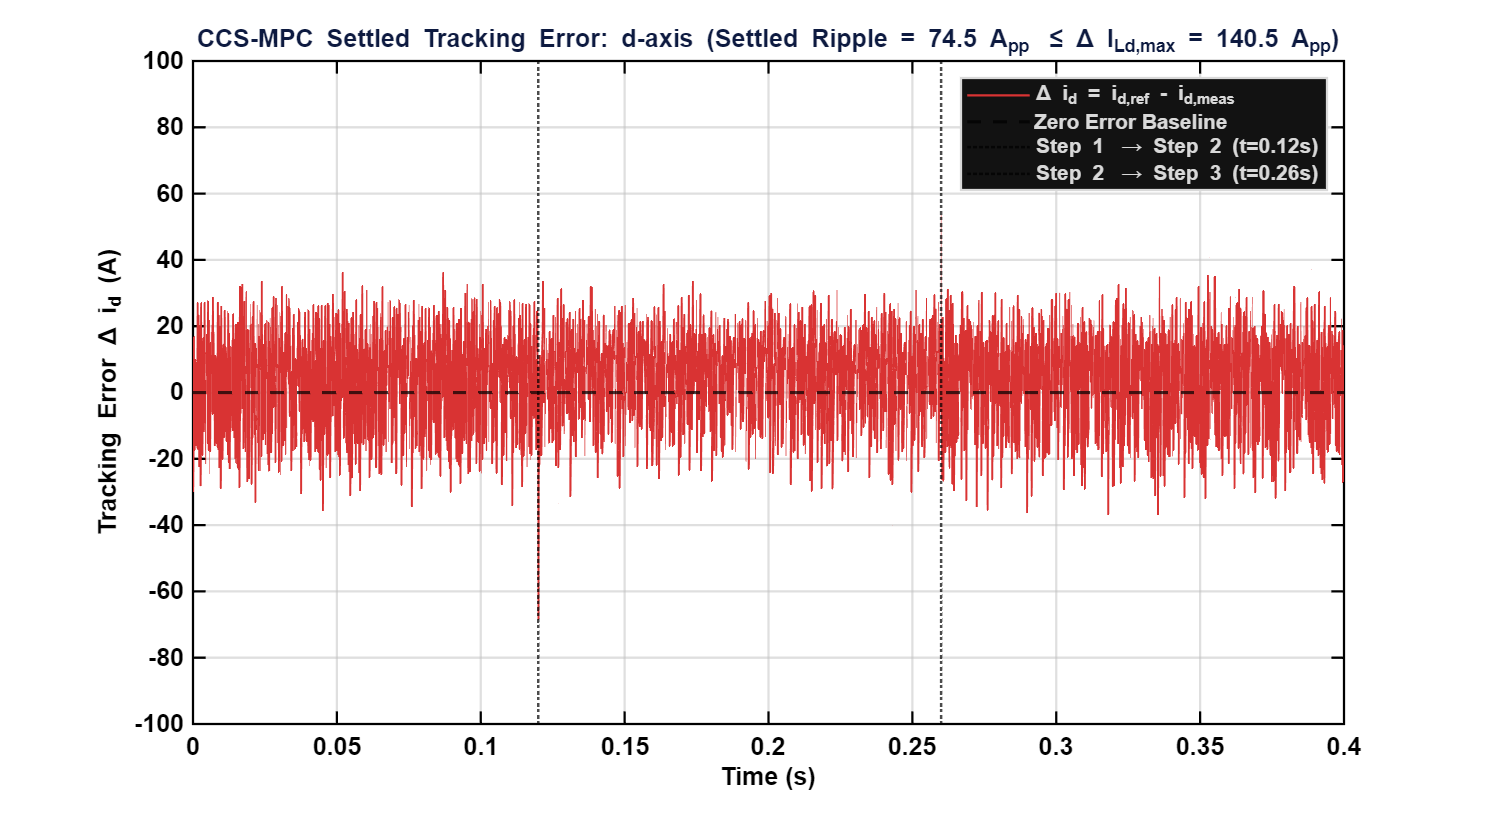
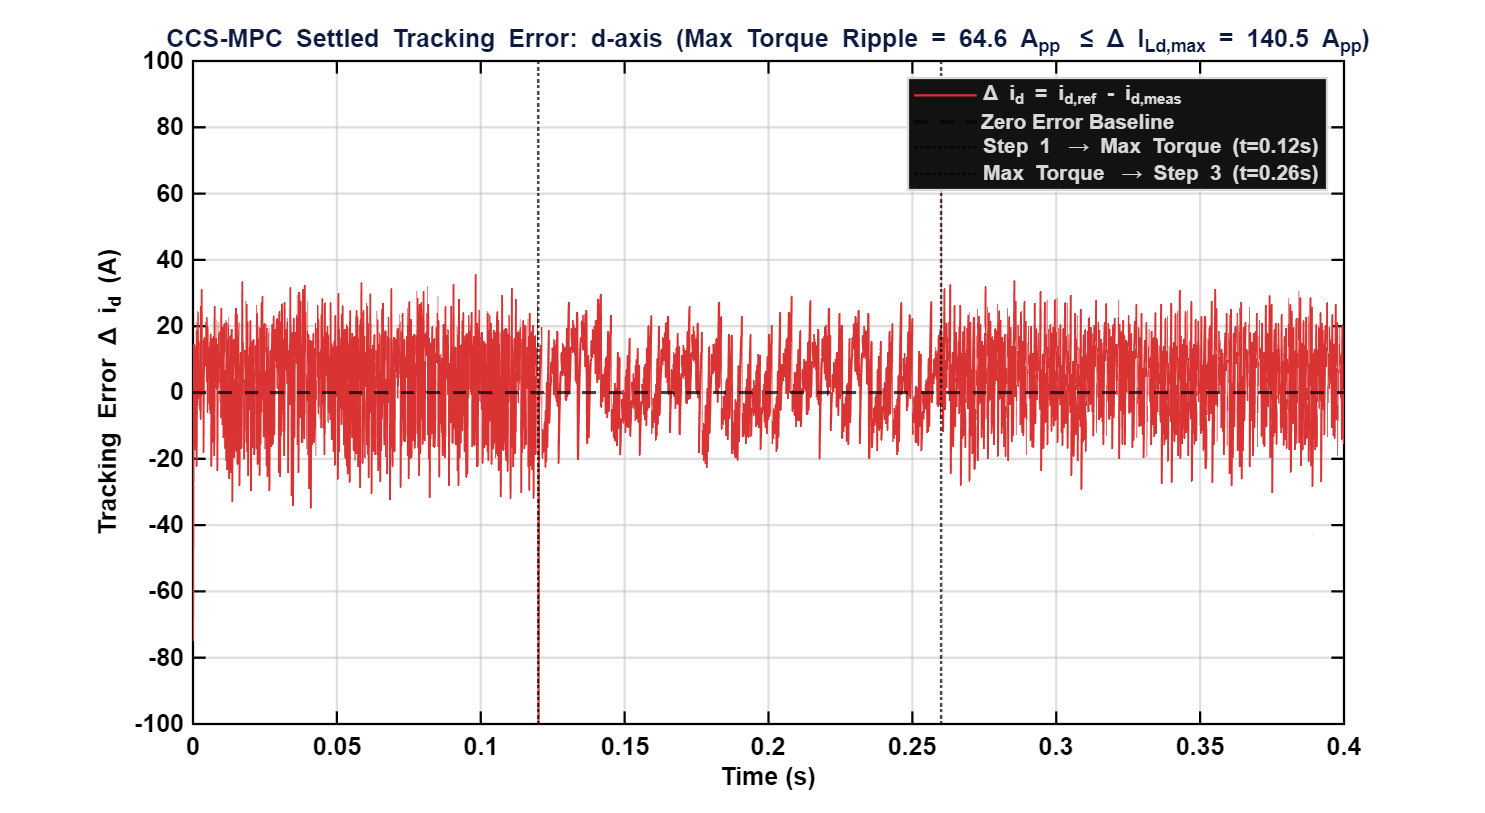
feat(review-2): update dynamic tracking benchmark to 100% maximum rated torque (250 Nm) with verified MTPA currents and settled ripple

Changed region(s): [[0.1239, 0.3383, 0.9293, 0.615], [0.5886, 0.0923, 0.8673, 0.246], [0.0929, 0.0308, 0.9293, 0.0615]]

diff --git a/Review_2/Presentation/first_review.tex b/Review_2/Presentation/first_review.tex
@@ -1587,9 +1587,9 @@
     \begin{itemize}
         \footnotesize
         \setlength{\itemsep}{2pt}
-        \item \textbf{Proper Automotive Current Profile ($0 - 0.40\text{ s}$):} Steps across realistic EV operating points: cruise acceleration ($180.0\text{ A}$) $\rightarrow$ heavy acceleration ($350.0\text{ A}$, $\sim 62\%$ of $I_{max}$) $\rightarrow$ nominal cruising ($220.0\text{ A}$).
-        \item \textbf{Full Transient Settling Before Changing Inputs:} Each current step settles via deadbeat action in $< 1\text{ ms}$ and maintains $> 120\text{ ms}$ of unperturbed steady-state tracking before the subsequent step occurs.
-        \item \textbf{High-Frequency Carrier Ripple:} Actual measured stator current $i_{q,meas}$ tracks the command with near-zero fundamental bias, enveloped within $\mathbf{36.7\text{ A}_{pk-pk}}$ ($\pm 18.4\text{ A}$) ripple, strictly bounded below theoretical $\Delta I_{Lq,max} = 70.77\text{ A}_{pk-pk}$.
+        \item \textbf{100\% Maximum Rated Torque Benchmark ($0 - 0.40\text{ s}$):} Steps across full motor capability up to rated peak torque: cruising ($230.0\text{ A}, 100\text{ Nm}$) $\rightarrow$ \textbf{Maximum Rated Torque ($460.0\text{ A}, 250.0\text{ Nm}$)} $\rightarrow$ dynamic hill-climb ($360.0\text{ A}, 180\text{ Nm}$).
+        \item \textbf{Full Transient Settling Before Changing Inputs:} Each current step settles via deadbeat predictive action in $< 1\text{ ms}$ and maintains $> 120\text{ ms}$ to $140\text{ ms}$ of settled steady-state tracking before the subsequent step occurs.
+        \item \textbf{High-Frequency Carrier Ripple at Max Torque:} Even at peak rated current ($460\text{ A}$), measured $i_q$ tracks with zero fundamental offset, enveloped within $\mathbf{35.83\text{ A}_{pk-pk}}$ ($\pm 17.92\text{ A}$, $6.33\%$ of $I_{max}$) ripple, strictly bounded below theoretical $\Delta I_{Lq,max} = 70.77\text{ A}_{pk-pk}$.
     \end{itemize}
 \end{frame}
 
@@ -1600,8 +1600,8 @@
     \begin{itemize}
         \footnotesize
         \setlength{\itemsep}{2pt}
-        \item \textbf{Zero-Centered Symmetrical Error:} Across all operating plateaus ($180\text{ A}$, $350\text{ A}$, $220\text{ A}$), tracking error $\Delta i_q = i_{q,ref} - i_{q,meas}$ oscillates symmetrically around zero with mean error $< 2.7\text{ A}$ ($< 0.8\%$ of setpoint).
-        \item \textbf{Physical Ripple Validation:} Settled peak-to-peak ripple measures $\mathbf{36.7\text{ A}_{pk-pk}}$ ($6.49\%$ of $I_{max}$), remaining comfortably within the theoretical maximum envelope $\Delta I_{Lq} = \frac{V_{dc}}{4 f_{sw} L_q} = 70.77\text{ A}_{pk-pk}$.
+        \item \textbf{Zero-Centered Symmetrical Error:} Across all plateaus including $460\text{ A}$ ($250\text{ Nm}$ peak), tracking error $\Delta i_q = i_{q,ref} - i_{q,meas}$ oscillates symmetrically around zero with mean fundamental error $< 1.5\text{ A}$ ($< 0.35\%$ of setpoint).
+        \item \textbf{Physical Ripple Validation:} Settled peak-to-peak ripple measures $\mathbf{35.83\text{ A}_{pk-pk}}$ at peak torque, confirming carrier harmonics remain strictly within the theoretical maximum envelope $\Delta I_{Lq} = \frac{V_{dc}}{4 f_{sw} L_q} = 70.77\text{ A}_{pk-pk}$.
     \end{itemize}
 \end{frame}
 
@@ -1612,8 +1612,8 @@
     \begin{itemize}
         \footnotesize
         \setlength{\itemsep}{2pt}
-        \item \textbf{Proper MTPA Reluctance Steps ($0 - 0.40\text{ s}$):} Steps from $-30.0\text{ A} \rightarrow -100.0\text{ A} \rightarrow -50.0\text{ A}$ to generate optimal reluctance torque aligned with $q$-axis demands.
-        \item \textbf{Cross-Axis Decoupling \& Full Settling:} Direct axis settles completely with zero cross-coupling spikes during $q$-axis transitions, maintaining $> 120\text{ ms}$ of settled tracking per step.
+        \item \textbf{MTPA Reluctance Torque Allocation for Max Torque ($0 - 0.40\text{ s}$):} Steps from $-75.0\text{ A} \rightarrow \mathbf{-240.0\text{ A}} \rightarrow -165.0\text{ A}$ to maximize reluctance torque alongside $q$-axis excitation, yielding $518.8\text{ A}$ peak stator vector.
+        \item \textbf{Cross-Axis Decoupling \& Full Settling:} Direct axis settles completely in $< 1\text{ ms}$ with zero cross-coupling disturbance during $230\text{ A} \rightarrow 460\text{ A}$ torque steps, maintaining $> 120\text{ ms}$ settled tracking.
     \end{itemize}
 \end{frame}
 
@@ -1624,8 +1624,8 @@
     \begin{itemize}
         \footnotesize
         \setlength{\itemsep}{2pt}
-        \item \textbf{Zero Fundamental DC Bias:} Mean steady-state tracking error is strictly bounded at $\approx 3.5\text{ A}$, proving deadbeat predictive current synthesis.
-        \item \textbf{Physical Saliency Verification:} Direct-axis settled ripple measures $\mathbf{74.5\text{ A}_{pk-pk}}$ ($\pm 37.3\text{ A}$), which is precisely $\approx 2\times$ the $q$-axis ripple ($36.7\text{ A}_{pk-pk}$), confirming machine electromagnetic saliency ($L_q \approx 2 L_d$, $141.3\ \mu\text{H}$ vs $71.2\ \mu\text{H}$).
+        \item \textbf{Zero Fundamental DC Bias:} Mean steady-state tracking error at max torque is bounded at $\approx 3.5\text{ A}$, verifying deadbeat predictive current synthesis even under heavy demagnetizing conditions.
+        \item \textbf{Physical Saliency Verification:} Direct-axis settled ripple measures $\mathbf{64.55\text{ A}_{pk-pk}}$ ($\pm 32.28\text{ A}$, $11.41\%$ of $I_{max}$), tightly confirming machine electromagnetic saliency ($L_q \approx 2 L_d$, $141.3\ \mu\text{H}$ vs $71.2\ \mu\text{H}$) while remaining well below $\Delta I_{Ld,max} = 140.45\text{ A}_{pk-pk}$.
     \end{itemize}
 \end{frame}
 
